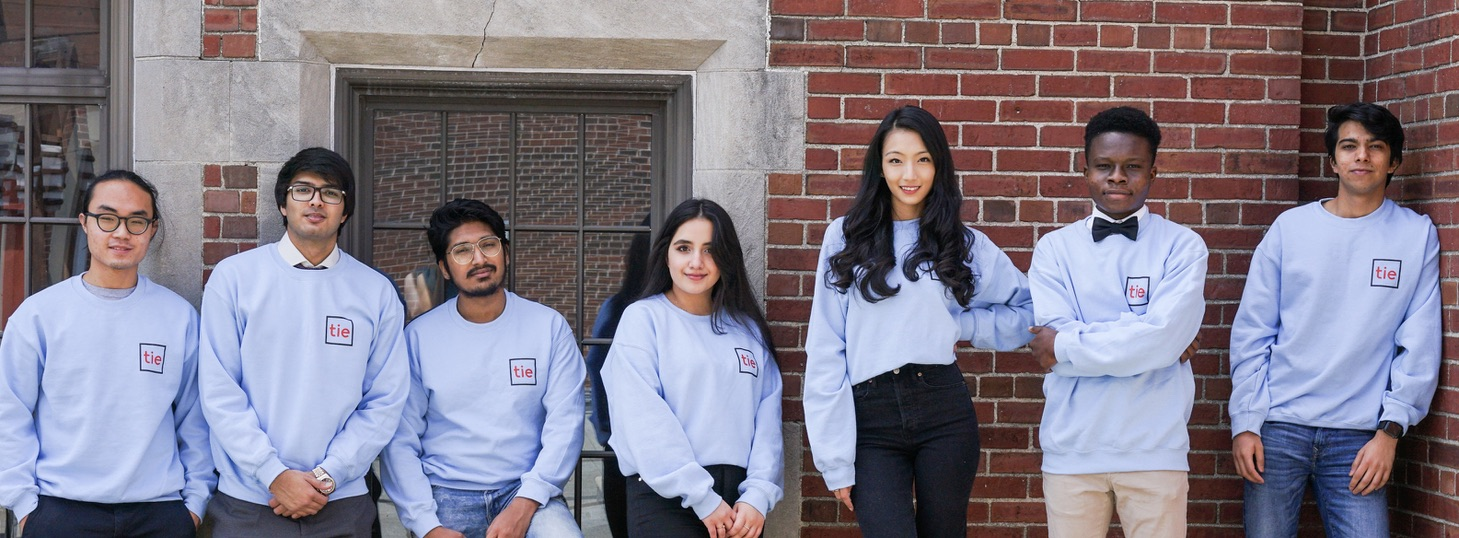
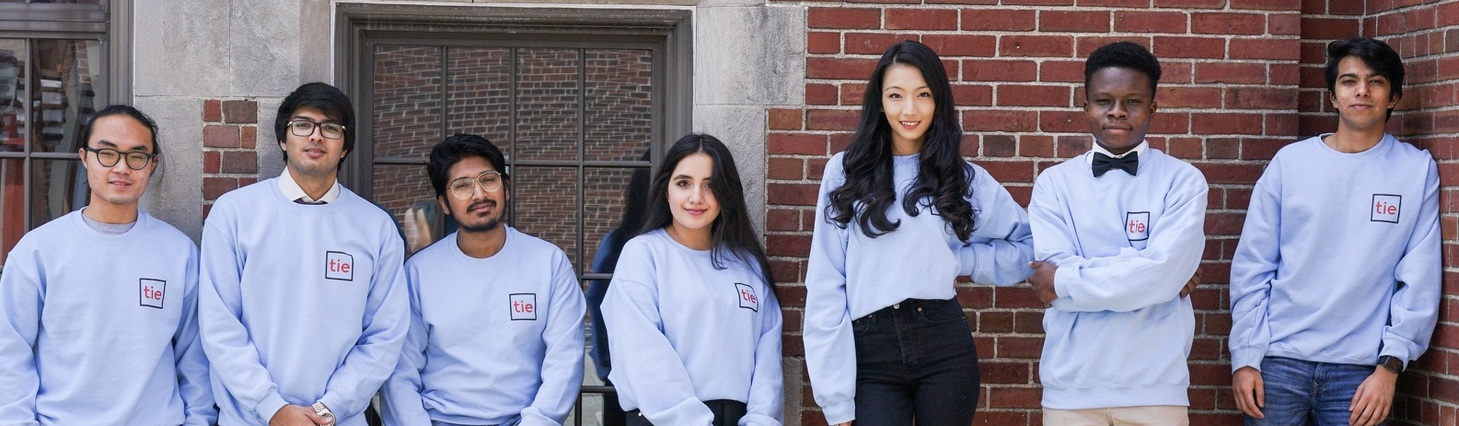
Made changes to the home page: - Removed text over the image - Fixed 2nd carousel image size - Narrowed the top carousel size

diff --git a/public/index.html b/public/index.html
@@ -81,12 +81,14 @@
         </div>
     </nav>
 </section>
+<!-- End of Header -->
 
 <!-- Main Body -->
+
 <!--Main Title-->
-<h1 id="MainTitle"><strong>T</strong>echnology <br> <strong>I</strong>nnovation and
-    <strong>E</strong>ntrepreneurship</h1>
+<!--<h2 id="MainTitle"><strong>T</strong>echnology. <strong>I</strong>nnovation. <strong>E</strong>ntrepreneurship. </h2>-->
 <!--End of Main Title-->
+
 <!-- Top Carousel -->
 <div id="PrimaryCarou" class="carousel slide" data-bs-ride="carousel">
     <div class="carousel-inner">
@@ -119,7 +121,7 @@
             <div id="MissionCarou" class="carousel slide" data-bs-ride="carousel">
                 <div class="carousel-inner">
                     <div class="carousel-item active">
-                        <img src="src/img/Hack.jpeg" class="d-block w-10 top-img" alt="..." data-interval="1000">
+                        <img src="src/img/Hack.jpeg" class="d-block w-10 top-img" alt="..." data-interval="2000">
                         <!--            <div class="carousel-caption">-->
                         <!--                <h3>TECHNOLOGY. INNOVATION. ENTREPRENEURSHIP.</h3>-->
                         <!--            </div>-->
@@ -160,7 +162,7 @@
                     innovate and inspire one another.
                 </p>
                 <br>
-                <a href="/eboard.html" class="mt-auto btn btn-danger">Learn More</a>
+                <a href="/events.html" class="mt-auto btn btn-danger">Get Involved!</a>
             </div>
         </div>
     </div>
@@ -236,7 +238,7 @@
 
         <!-- News 1 -->
         <div class="row">
-            <div class="col-md-5">
+            <div class="col-md-4">
                 <a href="#">
                     <img class="img-fluid rounded mb-3 mb-md-0 news-img"
                          src="https://s28151.pcdn.co/wp-content/uploads/sites/2/2020/10/2020-Nipurna-Dhakal-2-scaled.jpg"
@@ -256,7 +258,7 @@
 
         <!-- News 2 -->
         <div class="row">
-            <div class="col-md-5">
+            <div class="col-md-4">
                 <a href="#">
                     <img class="img-fluid rounded mb-3 mb-md-0 news-img"
                          src="https://i.ytimg.com/vi/yfMs_lENx18/maxresdefault.jpg"
@@ -276,7 +278,7 @@
 
         <!-- News 3 -->
         <div class="row">
-            <div class="col-md-5">
+            <div class="col-md-4">
                 <a href="#">
                     <img class="img-fluid rounded mb-3 mb-md-0 news-img"
                          src="https://s28151.pcdn.co/wp-content/uploads/sites/2/2018/11/2018-HackWellesley-1340x1121.jpg"
@@ -296,7 +298,7 @@
 
         <!-- News 4 -->
         <div class="row">
-            <div class="col-md-5">
+            <div class="col-md-4">
                 <a href="#">
                     <img class="img-fluid rounded mb-3 mb-md-0 news-img"
                          src="https://s28151.pcdn.co/wp-content/uploads/sites/2/2018/09/2018-Geva-Segal-Abdur-Rahman-Muhammad-Clark-University.jpg"

diff --git a/public/css/index.css b/public/css/index.css
@@ -9,16 +9,17 @@ body {
     background: linear-gradient(to right, #f6eded, #9a9c9f);
     min-height: 100vh;
 }
+
 /*----------------Main Title----------------*/
 #MainTitle{
     /*display: flex;*/
-    padding-top: 10%;
-    padding-left: 22%;
+    padding-top: 13%;
+    padding-left: 18%;
     position: absolute;
     color: var(--white);
     z-index: 1;
     text-align: center;
-    font-size: 80px;
+    font-size: 50px;
 }
 #MainTitle strong{
     color: var(--carnelian);
@@ -30,23 +31,22 @@ body {
 @media (min-width: 576px) {
     #MissionCarou img {
         width: auto !important;
-        height: 400px;
+        height: 50%;
         max-height: 400px;
         margin: auto;
     }
     #PrimaryCarou img {
         width: auto !important;
-        height: 600px;
-        max-height: 600px;
+        height: 60%;
+        max-height: 60%;
         margin: auto;
-        opacity: 30%;
+        opacity: 90%;
     }
 }
 
-#PrimaryCarou,#MissionCarou{
-    background-color: var(--eerie-black);
-}
-
+/*#PrimaryCarou,#MissionCarou{*/
+/*    background-color: var(--eerie-black);*/
+/*}*/
 /*----------------End of Carousel----------------*/
 
 body {
@@ -210,7 +210,7 @@ body{
 .f-right {
     float: right;
 }
-/********** NEWS *********/
+/*----------------News----------------*/
 .news-header{
     font-family: 'Raleway', sans-serif;
     font-weight: bold;
@@ -222,7 +222,7 @@ body{
 }
 
 #news h3{
-    font-family: 'Space Grotesk', sans-serif;
+    font-family: 'Raleway', sans-serif;
 }
 
 #news p{
@@ -232,4 +232,5 @@ body{
 .news-btn{
     border: none;
 }
+/*----------------End of News----------------*/
 

diff --git a/public/css/header-footer.css b/public/css/header-footer.css
@@ -1,7 +1,7 @@
 :root {
     /* CSS HEX */
     --rich-black-fogra-39: #0b090aff;
-    --eerie-black: #161a1dff;
+    --eerie-black: #62727a;
     --blood-red: #660708ff;
     --ruby-red: #a4161aff;
     --carnelian: #ba181bff;

diff --git a/public/css/login-register.css b/public/css/login-register.css
@@ -1,7 +1,7 @@
 :root {
     /* CSS HEX */
     --rich-black-fogra-39: #0b090aff;
-    --eerie-black: #161a1dff;
+    --eerie-black: #a5b5b8;
     --blood-red: #660708ff;
     --ruby-red: #a4161aff;
     --carnelian: #ba181bff;
